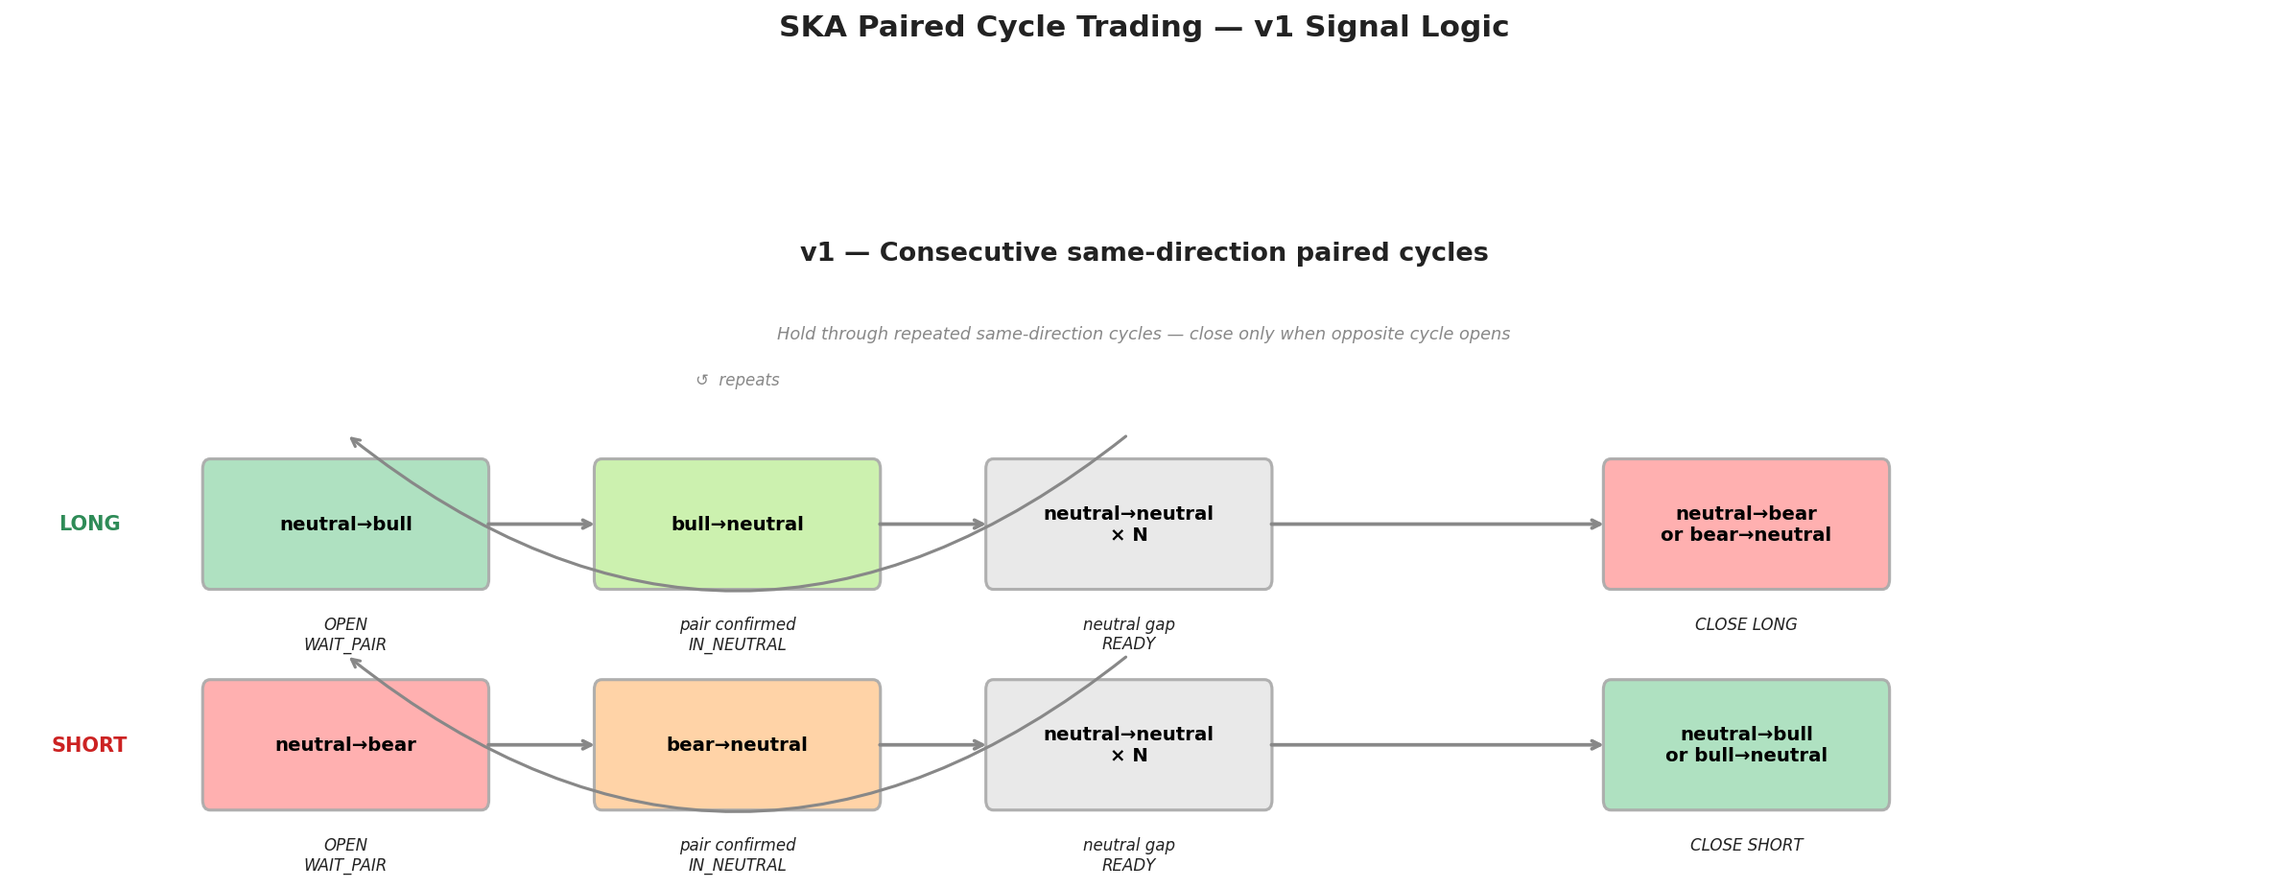
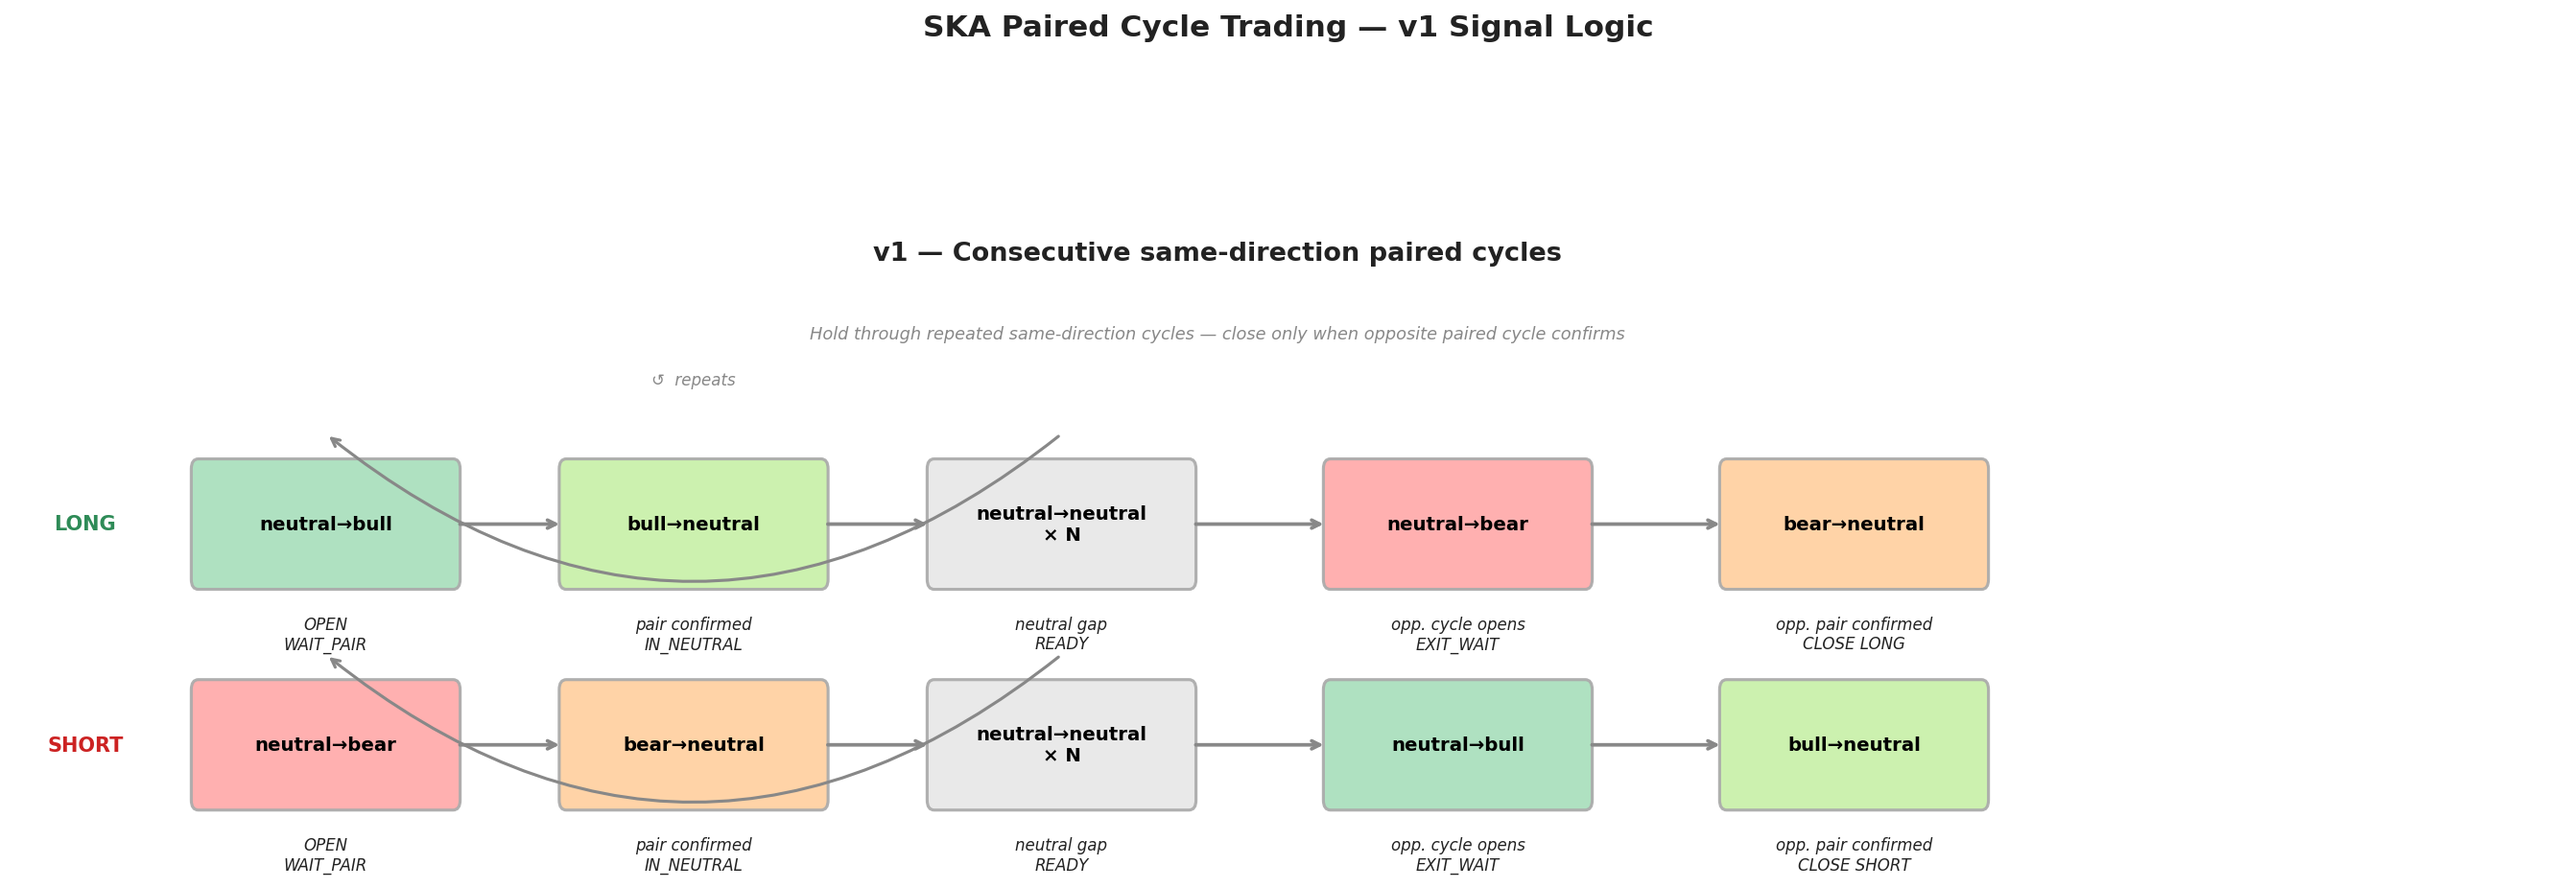
update

diff --git a/real_time_trading_bots/schema_bot_versions.py b/real_time_trading_bots/schema_bot_versions.py
@@ -35,25 +35,25 @@ def draw_arrow(ax, x1, x2, y, color='#888888'):
                 arrowprops=dict(arrowstyle='->', color=color, lw=1.8))
 
 
-fig, axes = plt.subplots(1, 1, figsize=(16, 6))
+fig, axes = plt.subplots(1, 1, figsize=(18, 6))
 fig.patch.set_facecolor(COLORS['bg'])
 fig.suptitle('SKA Paired Cycle Trading — v1 Signal Logic',
              fontsize=15, fontweight='bold', color=COLORS['text'], y=1.02)
 
 ax = axes
 ax.set_facecolor(COLORS['bg'])
-ax.set_xlim(-1, 14)
+ax.set_xlim(-1, 17)
 ax.set_ylim(-1.2, 2.6)
 ax.axis('off')
 
-ax.text(6.5, 1.85, 'v1 — Consecutive same-direction paired cycles', ha='center', va='center',
+ax.text(7.5, 1.85, 'v1 — Consecutive same-direction paired cycles', ha='center', va='center',
         fontsize=13, fontweight='bold', color=COLORS['text'])
-ax.text(6.5, 1.45, 'Hold through repeated same-direction cycles — close only when opposite cycle opens',
+ax.text(7.5, 1.45, 'Hold through repeated same-direction cycles — close only when opposite paired cycle confirms',
         ha='center', va='center', fontsize=8.5, color='#888888', fontstyle='italic')
 
-for seq_idx, (side, nb_color, close_label, close_color, repeat_color) in enumerate([
-    ('LONG',  COLORS['neutral→bull'], 'neutral→bear\nor bear→neutral', COLORS['neutral→bear'], COLORS['bull→neutral']),
-    ('SHORT', COLORS['neutral→bear'], 'neutral→bull\nor bull→neutral', COLORS['neutral→bull'], COLORS['bear→neutral']),
+for seq_idx, (side, nb_color, exit_open, exit_open_color, exit_close, exit_close_color, repeat_color) in enumerate([
+    ('LONG',  COLORS['neutral→bull'], 'neutral→bear', COLORS['neutral→bear'], 'bear→neutral', COLORS['bear→neutral'], COLORS['bull→neutral']),
+    ('SHORT', COLORS['neutral→bear'], 'neutral→bull', COLORS['neutral→bull'], 'bull→neutral', COLORS['bull→neutral'], COLORS['bear→neutral']),
 ]):
     y = 0.5 - seq_idx * 1.1
     side_color = '#2E8B57' if side == 'LONG' else '#CC2222'
@@ -63,9 +63,9 @@ for seq_idx, (side, nb_color, close_label, close_color, repeat_color) in enumera
     open_trans = 'neutral→bull' if side == 'LONG' else 'neutral→bear'
     pair_trans = 'bull→neutral' if side == 'LONG' else 'bear→neutral'
 
-    draw_transition(ax, 1.2, y, open_trans,  nb_color,     'OPEN\nWAIT_PAIR')
+    draw_transition(ax, 1.2, y, open_trans,       nb_color,          'OPEN\nWAIT_PAIR')
     draw_arrow(ax, 1.2, 3.8, y)
-    draw_transition(ax, 3.8, y, pair_trans,  repeat_color, 'pair confirmed\nIN_NEUTRAL')
+    draw_transition(ax, 3.8, y, pair_trans,        repeat_color,      'pair confirmed\nIN_NEUTRAL')
     draw_arrow(ax, 3.8, 6.4, y)
     draw_transition(ax, 6.4, y, 'neutral→neutral\n× N', COLORS['neutral→neutral'], 'neutral gap\nREADY')
     # Loop arrow back
@@ -75,8 +75,10 @@ for seq_idx, (side, nb_color, close_label, close_color, repeat_color) in enumera
     if seq_idx == 0:
         ax.text(3.8, y + 0.72, '↺  repeats', ha='center', va='center',
                 fontsize=8, color='#888888', fontstyle='italic')
-    draw_arrow(ax, 6.4, 10.5, y)
-    draw_transition(ax, 10.5, y, close_label, close_color, 'CLOSE ' + side)
+    draw_arrow(ax, 6.4, 9.2, y)
+    draw_transition(ax, 9.2, y, exit_open,         exit_open_color,   'opp. cycle opens\nEXIT_WAIT')
+    draw_arrow(ax, 9.2, 12.0, y)
+    draw_transition(ax, 12.0, y, exit_close,        exit_close_color,  'opp. pair confirmed\nCLOSE ' + side)
 
 plt.tight_layout()
 outfile = '/home/coder/project/Real_Time_SKA_trading/batch_trading_bot/schema_bot_versions.png'

diff --git a/real_time_trading_bots/README.md b/real_time_trading_bots/README.md
@@ -24,7 +24,7 @@ event (completion of a paired regime cycle), not on a threshold or a price level
 flowchart TB
     title["SKA Paired Cycle Trading — v1 Signal Logic"]
 
-    note["v1 — Consecutive same-direction paired cycles<br/>Hold through repeated same-direction cycles — close only when opposite cycle opens"]
+    note["v1 — Consecutive same-direction paired cycles<br/>Hold through repeated same-direction cycles — close only when opposite paired cycle confirms"]
 
     title --> note
 
@@ -33,9 +33,10 @@ flowchart TB
         L1["neutral→bull<br/><i>OPEN / WAIT_PAIR</i>"]
         L2["bull→neutral<br/><i>pair confirmed / IN_NEUTRAL</i>"]
         L3["neutral→neutral × N<br/><i>neutral gap / READY</i>"]
-        L4["neutral→bear<br/>or bear→neutral<br/><i>CLOSE LONG</i>"]
+        L4["neutral→bear<br/><i>opp. cycle opens / EXIT_WAIT</i>"]
+        L5["bear→neutral<br/><i>opp. pair confirmed / CLOSE LONG</i>"]
 
-        L1 --> L2 --> L3 --> L4
+        L1 --> L2 --> L3 --> L4 --> L5
         L3 -. "↺ repeats" .-> L1
     end
 
@@ -44,9 +45,10 @@ flowchart TB
         S1["neutral→bear<br/><i>OPEN / WAIT_PAIR</i>"]
         S2["bear→neutral<br/><i>pair confirmed / IN_NEUTRAL</i>"]
         S3["neutral→neutral × N<br/><i>neutral gap / READY</i>"]
-        S4["neutral→bull<br/>or bull→neutral<br/><i>CLOSE SHORT</i>"]
+        S4["neutral→bull<br/><i>opp. cycle opens / EXIT_WAIT</i>"]
+        S5["bull→neutral<br/><i>opp. pair confirmed / CLOSE SHORT</i>"]
 
-        S1 --> S2 --> S3 --> S4
+        S1 --> S2 --> S3 --> S4 --> S5
         S3 -.-> S1
     end
 
@@ -65,10 +67,12 @@ flowchart TB
     class L2 longPair;
     class L3 neutral;
     class L4 shortOpen;
+    class L5 shortPair;
     class S1 shortOpen;
     class S2 shortPair;
     class S3 neutral;
     class S4 longOpen;
+    class S5 longPair;
 ```
 
 
